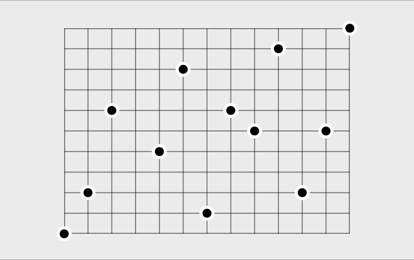
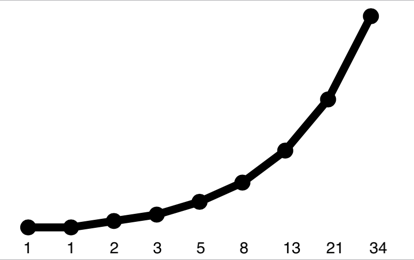
added fifth demo

Changed region(s): [[0.029, 0.0308, 0.9275, 0.9846], [0.8986, 0.9231, 0.9565, 0.9846]]

diff --git a/Sources/Graffeine-Demo/Main/LinePoints/LinePointsConfig.swift b/Sources/Graffeine-Demo/Main/LinePoints/LinePointsConfig.swift
@@ -1,0 +1,48 @@
+import UIKit
+import Graffeine
+
+class LinePointsConfig: GraffeineViewConfig {
+
+    enum ID: Hashable {
+        case topGutter, rightGutter, bottomGutter, leftGutter
+        case hGrid, vGrid, line, points
+    }
+
+    required init(_ graffeineView: GraffeineView) {
+        super.init(graffeineView)
+
+        let unitMargin: CGFloat = 0.0
+
+        graffeineView.layers = [
+
+            GraffeineHorizontalGutter(id: ID.topGutter, height: 16, region: .topGutter),
+
+            GraffeineHorizontalGutter(id: ID.bottomGutter, height: 26, region: .bottomGutter)
+                .apply ({
+                    $0.colors = [.black]
+                    $0.labelHorizontalAlignmentMode = .left
+                    $0.labelVerticalAlignmentMode = .top
+                    $0.labelVPadding = 4.0
+                    $0.labelHPadding = -5
+                    $0.fontSize = 16.0
+                }),
+
+            GraffeineVerticalGutter(id: ID.leftGutter, width: 28, region: .leftGutter),
+
+            GraffeineLineLayer(id: ID.line)
+                .apply ({
+                    $0.colors = [.black]
+                    $0.unitMargin = unitMargin
+                    $0.thickness = 8.0
+                    $0.lineJoin = .round
+                }),
+
+            GraffeinePlotLayer(id: ID.points)
+                .apply ({
+                    $0.colors = [.black]
+                    $0.unitMargin = unitMargin
+                    $0.plotDiameter = 16.0
+                })
+        ]
+    }
+}

diff --git a/Sources/Graffeine-Demo/Main/MainViewController.swift b/Sources/Graffeine-Demo/Main/MainViewController.swift
@@ -12,7 +12,7 @@ class MainViewController: UIViewController {
 extension MainViewController: UITableViewDataSource, UITableViewDelegate {
 
     func numberOfSections(in tableView: UITableView) -> Int {
-        return 4
+        return 5
     }
 
     func tableView(_ tableView: UITableView, numberOfRowsInSection section: Int) -> Int {
@@ -33,7 +33,8 @@ extension MainViewController: UITableViewDataSource, UITableViewDelegate {
         case 0: return "Vertical Descending Bars"
         case 1: return "Red Green Lines"
         case 2: return "Horizontal Grouped Bars"
-        case 3: return "Scatter Plot"
+        case 3: return "Line Points"
+        case 4: return "Scatter Plot"
         default: return ""
         }
     }
@@ -43,7 +44,8 @@ extension MainViewController: UITableViewDataSource, UITableViewDelegate {
         case (0, 0): return "VerticalDescendingBarsCell"
         case (1, 0): return "RedGreenLinesCell"
         case (2, 0): return "HorizontalGroupedBarsCell"
-        case (3, 0): return "ScatterplotCell"
+        case (3, 0): return "LinePointsCell"
+        case (4, 0): return "ScatterplotCell"
         default: return "VerticalDescendingBarsCell"
         }
     }

diff --git a/Sources/Graffeine-Demo/Main/LinePoints/LinePointsCell.swift b/Sources/Graffeine-Demo/Main/LinePoints/LinePointsCell.swift
@@ -1,0 +1,26 @@
+import UIKit
+import Graffeine
+
+class LinePointsCell: UITableViewCell, DataAppliable {
+
+    typealias LayerID = LinePointsConfig.ID
+    
+    @IBOutlet weak var graffeineView: GraffeineView!
+
+    func applyData() {
+        let values: [Double] = [1, 1, 2, 3, 5, 8, 13, 21, 34]
+        let maxValue = values.max()!
+
+        graffeineView.layer(id: LayerID.line)?.apply {
+            $0.data = GraffeineLayer.Data(valueMax: maxValue, values: values + [nil])
+        }
+
+        graffeineView.layer(id: LayerID.points)?.apply {
+            $0.data = GraffeineLayer.Data(valueMax: maxValue, values: values + [nil])
+        }
+
+        graffeineView.layer(id: LayerID.bottomGutter)?.apply {
+            $0.data = GraffeineLayer.Data(labels: values.map { String(Int($0)) })
+        }
+    }
+}

diff --git a/Sources/Graffeine-Demo/Main/RedGreenLines/RedGreenLinesConfig.swift b/Sources/Graffeine-Demo/Main/RedGreenLines/RedGreenLinesConfig.swift
@@ -88,6 +88,7 @@ class RedGreenLinesConfig: GraffeineViewConfig {
                     $0.colors = [.red]
                     $0.unitMargin = unitMargin
                     $0.dashPattern = [4, 3]
+                    $0.dashPhase = 4
                     $0.thickness = 8.0
                     $0.lineJoin = .round
                 }),
@@ -105,6 +106,7 @@ class RedGreenLinesConfig: GraffeineViewConfig {
                 $0.colors = [.green]
                 $0.unitMargin = unitMargin
                 $0.dashPattern = [4, 3]
+                $0.dashPhase = 4
                 $0.thickness = 8.0
                 $0.lineJoin = .round
             })

diff --git a/Sources/Graffeine-Demo/Main/RedGreenLines/RedGreenLinesCell.swift b/Sources/Graffeine-Demo/Main/RedGreenLines/RedGreenLinesCell.swift
@@ -17,11 +17,11 @@ class RedGreenLinesCell: UITableViewCell, DataAppliable {
         }
 
         graffeineView.layer(id: LayerID.greenLine)?.apply {
-            $0.data = GraffeineLayer.Data(valueMax: 50, values: [13, 28, 33, 44, 9, 18, nil])
+            $0.data = GraffeineLayer.Data(valueMax: 50, values: [13, 28, 33, 44, 8, 16, nil])
         }
 
         graffeineView.layer(id: LayerID.greenLineProj)?.apply {
-            $0.data = GraffeineLayer.Data(valueMax: 50, values: [nil, nil, nil, nil, nil, 18, 27])
+            $0.data = GraffeineLayer.Data(valueMax: 50, values: [nil, nil, nil, nil, nil, 16, 24])
         }
     }
 }

diff --git a/Sources/Graffeine-Demo/Main/Scatterplot/ScatterplotCell.swift b/Sources/Graffeine-Demo/Main/Scatterplot/ScatterplotCell.swift
@@ -8,7 +8,7 @@ class ScatterplotCell: UITableViewCell, DataAppliable {
     @IBOutlet weak var graffeineView: GraffeineView!
 
     func applyData() {
-        let values: [Double?] = [0, 10, 30, nil, 20, 40, 5, 30, 25, 45, 10, 25, 50]
+        let values: [Double?] = [0, 10, 30, 15, 20, 40, 5, 30, 25, 45, 10, 25, 50]
         graffeineView.layer(id: LayerID.hGrid)?.apply {
             let max = values.count - 1
             let marks = Array(0...max).map { Double($0) }

diff --git a/README.md b/README.md
@@ -25,3 +25,7 @@ Here are a few lo-res examples:
   
   <br />
 
+![sample_5](docs/sample_5.png)
+ 
+ <br />
+
